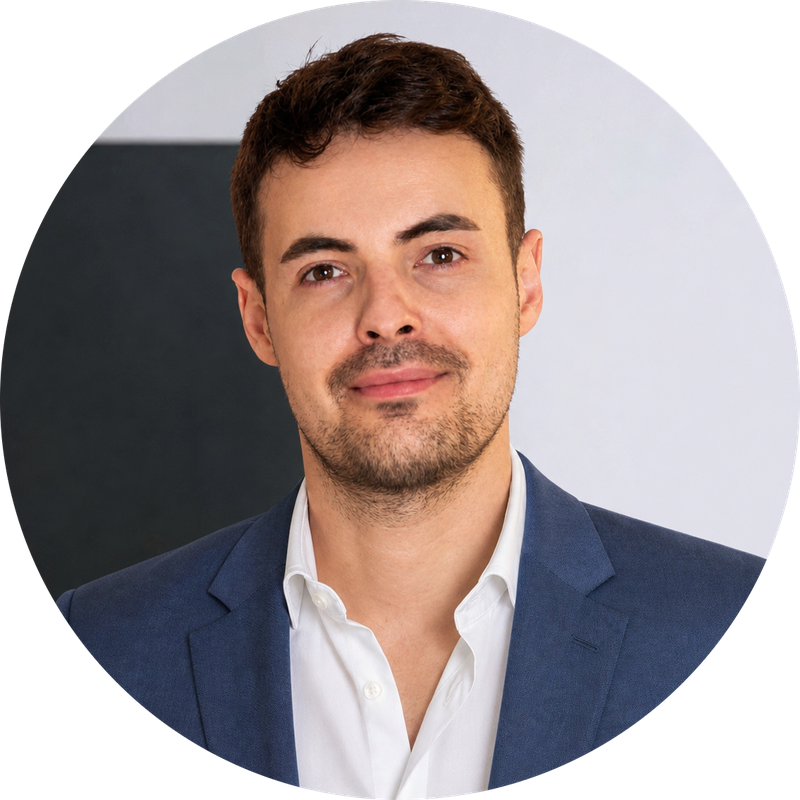
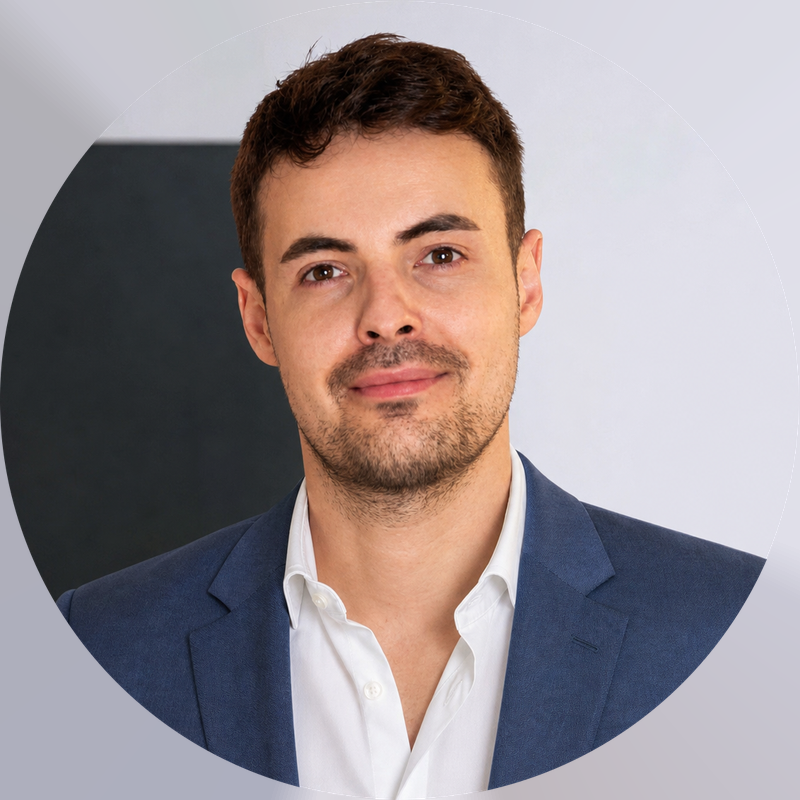
Biographie : fond du portrait prolongé avec le gris réel de la photo, sans démarcation derrière la tête

diff --git a/ar/index.html b/ar/index.html
@@ -15,7 +15,7 @@
 <link rel="alternate" hreflang="ar" href="https://erjb-web.github.io/ar/">
 <link rel="alternate" hreflang="x-default" href="https://erjb-web.github.io/">
 <link rel="icon" href="../assets/favicon.svg" type="image/svg+xml">
-<link rel="stylesheet" href="../assets/site.css?v=1a9c90b006">
+<link rel="stylesheet" href="../assets/site.css?v=4594e9cc21">
 <meta property="og:type" content="profile">
 <meta property="og:title" content="Éric Bernier">
 <meta property="og:description" content="Éric Bernier، طالب دكتوراه في الصحة العامة (الأنظمة والمنظمات والسياسات الصحية) في ESPUM، وقانوني ورائد أعمال ومربٍّ متخصص. يتناول بحثه الاستجابة المشتركة بين القطاعات للاحتياجات الاجتماعية المعقدة في الرعاية الصحية الأولية.">
@@ -333,7 +333,7 @@
 <p class="surtitre">03.1 · السيرة</p>
 <h2>من التجارب الإنسانية إلى التحولات الجماعية</h2>
 <div class="bio-intro"><p>مربٍّ متخصص وقانوني ورائد أعمال وطالب دكتوراه في الصحة العامة، تشكّل مساري في ملتقى عوالم مختلفة: مرافقة الأشخاص، وإدارة المنظمات، والقانون، والسياسات العامة، والبحث.</p><p>وخلف هذا التنوع يكمن طموح واحد: <strong>فهم الآليات التي تشكّل المسارات الفردية والجماعية، للإسهام في بناء مجتمعات أكثر عدلًا وتضامنًا، وقادرة على الاعتراف بإمكانات الفعل لدى كل فرد.</strong></p><p>ويغذّي مساري، الشخصي والمهني على حد سواء، قناعةً راسخة: لا يمكن فصل الواقع الإنساني عن الأنظمة الاجتماعية والتنظيمية والسياسية التي يندرج فيها.</p><p>ويتبع هذا المسار دينامية تصاعدية: من مرافقة الأشخاص نحو تحويل المنظمات وسياسات الصحة والخدمات الاجتماعية، مع توجّه واضح نحو دعم القرار العمومي.</p></div>
-<figure class="bio-figure"><img class="portrait-bio" src="../assets/portrait-bio.png?v=e3ad89d902" width="800" height="800" alt="صورة شخصية لـ Éric Bernier" loading="lazy"><blockquote class="citation">لا يمكن فصل الواقع الإنساني عن الأنظمة الاجتماعية والتنظيمية والسياسية التي يندرج فيها.</blockquote></figure>
+<figure class="bio-figure"><img class="portrait-bio" src="../assets/portrait-bio.png?v=8fae815c2b" width="800" height="800" alt="صورة شخصية لـ Éric Bernier" loading="lazy"><blockquote class="citation">لا يمكن فصل الواقع الإنساني عن الأنظمة الاجتماعية والتنظيمية والسياسية التي يندرج فيها.</blockquote></figure>
 </div>
 <div class="colonne-outils">
 <ol class="recit"><li><span class="recit-num">01</span><div><h3>بناء الذات خارج المسارات التقليدية</h3><p>بدأ مساري في فرنسا، في وسط شعبي، طبعته على وجه الخصوص تجربةٌ مع نظام الرعاية الاجتماعية للطفولة وانقطاعٌ عن الدراسة في سن السادسة عشرة.</p><p>وبعيدًا عن المسار الأكاديمي التقليدي، بنيتُ مساري تدريجيًا من خلال العمل، واستكشاف أوساط مختلفة، والعودة إلى الدراسة.</p><p>وقد غذّت هذه التجارب، شأنها شأن تنوّعي العصبي، استقلاليةَ تفكيري وقدرتي على التكيّف واهتمامي بآليات إعادة الإنتاج الاجتماعي والتحرر والتضامن. وهي تسهم اليوم في تشكيل نظرتي إلى المؤسسات وإلى تنوع التجارب الإنسانية.</p></div></li><li><span class="recit-num">02</span><div><h3>الإبداع واللقاء وأخلاقيات الرعاية</h3><p>قادني اهتمامي بالموسيقى إلى الالتحاق بدراسة الليسانس في علم الموسيقى، بالتوازي مع تجاربي الأولى في التنشيط، ثم إلى تولّي مسؤولية إقامات مكيّفة لفائدة أشخاص في وضعية إعاقة.</p><p>وبعيدًا عن اختلافاتها، أتاحت لي هذه العوالم استكشاف العلاقات الإنسانية في أبعاد متعددة: التعبير الفردي، والحياة الجماعية، والمرافقة، والمسؤولية تجاه الآخر.</p><p>وعلى امتداد إحدى عشرة سنة من الالتزام إلى جانب الهشاشة الإنسانية، منحت هذه التجارب تدريجيًا مكانةً محورية لأخلاقيات <em>الرعاية</em>، وللاعتراف بالقدرات الفردية، ولأهمية مرافقةٍ تعزّز الاستقلالية بدلًا من التبعية. كما أظهرت لي قوة آليات التضامن.</p></div></li><li><span class="recit-num">03</span><div><h3>من المرافقة إلى تقرير المصير</h3><p>بعد سنوات عديدة من العمل الميداني، رغبتُ في إعطاء توجّه جديد لنشاطي المهني، مسترشدًا بتفكير في المنفعة الاجتماعية وفي المكانة التي أردتُ أن أشغلها في المجتمع.</p><p>فعدتُ إلى الدراسة في التربية المتخصصة لتعميق الأسس النظرية والأخلاقية والمنهجية للمرافقة في القطاعين الاجتماعي والطبي الاجتماعي، مع إعادة تركيز ممارستي على تقرير المصير وعلى «العمل مع» الأشخاص.</p><p>وقد شكّلت رسالتي في الممارسة المهنية، المخصّصة لتأثير الممارسات التربوية في تقرير المصير، منعطفًا في تساؤلاتي: <strong>كيف نعزّز حرية الأشخاص في الاختيار حين تكون شروط مرافقتهم محكومةً أيضًا بطريقة عمل المؤسسات؟</strong></p></div></li><li><span class="recit-num">04</span><div><h3>فهم المنظمات لتحويل الممارسات</h3><p>قادني هذا التساؤل إلى توسيع تفكيري ليشمل المنظمات ذاتها.</p><p>فتابعتُ تكوينًا في إدارة المؤسسات الصحية والطبية الاجتماعية وتسييرها، إلى جانب دبلوم جامعي في ريادة الأعمال من IAE de Brest (معهد إدارة الأعمال في بريست)، حصلتُ عليه سنة 2023.</p><p>وفيهما عمّقتُ قضايا الإدارة والتمويل والتنسيق والموارد البشرية وإدارة التغيير. ولاحظتُ أن صعوبات المؤسسات، من التمويل إلى العمل الشراكي فالتوظيف، كانت مشروطةً إلى حد بعيد بالسياسات العامة للصحة.</p><p>وقد سعيتُ قبل كل شيء إلى فهم الشروط التي تمكّن المهنيين من ترجمة نواياهم إلى ممارسات فعلية، وتمكّن المنظمات من التوفيق بين قيودها واحتياجات الأشخاص.</p></div></li><li><span class="recit-num">05</span><div><h3>من طريقة عمل المؤسسات إلى حوكمة الأنظمة الصحية</h3><p>قادتني دراسة المنظمات إلى استكشاف الآليات التي توجّه قراراتها: الأطر القانونية، والسياسات العامة، والتخطيط، وآليات التمويل، وأنماط الحوكمة.</p><p>وواصلتُ هذا التفكير في Université Paris-Panthéon-Assas (جامعة باريس بانتيون أساس)، في القانون العام والصحي والاجتماعي، لتجاوز الإشكاليات التسييرية واعتماد مقاربة متعددة المستويات للنظام الصحي وللأدوات القانونية للتضامن الوطني، ثم بصفتي مكلّفًا بالمشاريع في Agence nationale d’appui à la performance (الوكالة الوطنية لدعم الأداء، ANAP).</p><p>وأتاحت لي هذه التجربة العمل عند نقطة التقاء التوجهات الوطنية بالواقع التشغيلي، عبر ترجمة هذه التوجهات إلى آليات ملموسة، على تماسّ مع القضايا التي يواجهها المسيّرون والمهنيون ومستخدمو النظام الصحي.</p><p>وقد عزّزت اهتمامي بصعوبات تنفيذ السياسات العامة، ولا سيما حين تقتضي الاستجابات المطلوبة تجاوزَ الحدود بين المنظمات وقطاعات التدخل. وقد كشف هذا الانغماس، الذي عزّزته رسالة بحث، عن صعوبات تنفيذ نماذج الرعاية والخدمات المتكاملة، وعن ضرورة مقاربة مشتركة بين القطاعات ومتعددة التخصصات في مواجهة الممارسات المنعزلة. فتواصلتُ حينها مع عدد من الباحثين في كيبيك، وعرضتُ عليهم ملاحظاتي ومشروعًا لمقارنة الأنظمة الصحية، بحثًا عن حلول لصعوبات تنفيذ سياسات البقاء في المنزل.</p></div></li><li><span class="recit-num">06</span><div><h3>إنتاج المعارف لإنارة العمل الجماعي</h3><p>واليوم، يواصل هذا المسارَ برنامجُ الدكتوراه في الصحة العامة الذي أتابعه في Université de Montréal (جامعة مونتريال)، تحت إشراف الدكتورتين N. Sourial وG. Layani.</p><p>وتتناول أعمالي تنظيم أنظمة الصحة والخدمات الاجتماعية، والاحتياجات الاجتماعية للسكان، والتعاون بين القطاعات، وشروط تنفيذ استجابات متكاملة، لا سيما في مجال الدعم المنزلي.</p><p>ومقاربتي متعددة التخصصات وبراغماتية بامتياز. وهي تسعى إلى التقريب بين التجارب المعيشة والمعارف العلمية وواقع صنع القرار، لفهم الظواهر المدروسة على نحو أفضل والإسهام في تحويل الممارسات والسياسات العامة.</p><p>وأولي اهتمامًا خاصًا للفئات السكانية التي تعاني فقدان الاستقلالية والبعيدة عن الخدمات، وللبحث التشاركي الذي يُدمج المرضى بوصفهم منتجين للمعارف، ولنقل المعارف وتعبئتها من قِبل الأشخاص والمهنيين والمنظمات وصنّاع القرار.</p><p>وتمتد هذه الرغبة في الإبداع والتجريب والاقتراح أيضًا إلى ريادة الأعمال، ولا سيما من خلال تطوير <strong>OWNNIGHT</strong>، وهو مشروع قيد الإنشاء.</p></div></li></ol>

diff --git a/index.html b/index.html
@@ -15,7 +15,7 @@
 <link rel="alternate" hreflang="ar" href="https://erjb-web.github.io/ar/">
 <link rel="alternate" hreflang="x-default" href="https://erjb-web.github.io/">
 <link rel="icon" href="assets/favicon.svg" type="image/svg+xml">
-<link rel="stylesheet" href="assets/site.css?v=1a9c90b006">
+<link rel="stylesheet" href="assets/site.css?v=4594e9cc21">
 <meta property="og:type" content="profile">
 <meta property="og:title" content="Éric Bernier">
 <meta property="og:description" content="Éric Bernier, doctorant en santé publique (systèmes, organisations et politiques de santé) à l’ESPUM, juriste, entrepreneur et éducateur spécialisé. Recherche sur la réponse intersectorielle aux besoins sociaux complexes en soins primaires.">
@@ -333,7 +333,7 @@
 <p class="surtitre">03.1 · Biographie</p>
 <h2>Des expériences humaines aux transformations collectives</h2>
 <div class="bio-intro"><p>Éducateur spécialisé, juriste, entrepreneur et doctorant en santé publique, mon parcours s’est construit à la rencontre de différents univers : l’accompagnement des personnes, la gestion des organisations, le droit, les politiques publiques et la recherche.</p><p>Derrière cette diversité se trouve une même ambition : <strong>comprendre les mécanismes qui façonnent les trajectoires individuelles et collectives, pour contribuer à des sociétés plus justes, solidaires et capables de reconnaître les possibilités d’agir de chacun.</strong></p><p>Mon cheminement, personnel comme professionnel, nourrit une conviction : les réalités humaines ne peuvent être dissociées des systèmes sociaux, organisationnels et politiques dans lesquels elles s’inscrivent.</p><p>Il suit une dynamique ascendante : de l’accompagnement des personnes vers la transformation des organisations et des politiques de santé et de services sociaux, avec une orientation claire vers l’appui à la décision publique.</p></div>
-<figure class="bio-figure"><img class="portrait-bio" src="assets/portrait-bio.png?v=e3ad89d902" width="800" height="800" alt="Portrait d’Éric Bernier" loading="lazy"><blockquote class="citation">Les réalités humaines ne peuvent être dissociées des systèmes sociaux, organisationnels et politiques dans lesquels elles s’inscrivent.</blockquote></figure>
+<figure class="bio-figure"><img class="portrait-bio" src="assets/portrait-bio.png?v=8fae815c2b" width="800" height="800" alt="Portrait d’Éric Bernier" loading="lazy"><blockquote class="citation">Les réalités humaines ne peuvent être dissociées des systèmes sociaux, organisationnels et politiques dans lesquels elles s’inscrivent.</blockquote></figure>
 </div>
 <div class="colonne-outils">
 <ol class="recit"><li><span class="recit-num">01</span><div><h3>Se construire hors des trajectoires conventionnelles</h3><p>Mon parcours commence en France, dans un milieu populaire, marqué notamment par une expérience de l’aide sociale à l’enfance et une déscolarisation à seize ans.</p><p>Loin d’un cheminement académique conventionnel, j’ai progressivement construit ma trajectoire par le travail, l’exploration de différents milieux et la reprise d’études.</p><p>Ces expériences, tout comme ma neuroatypie, ont nourri mon indépendance de pensée, ma capacité d’adaptation et mon intérêt pour les mécanismes de reproduction sociale, d’émancipation et de solidarité. Elles contribuent aujourd’hui à mon regard sur les institutions et sur la diversité des expériences humaines.</p></div></li><li><span class="recit-num">02</span><div><h3>La création, la rencontre et l’éthique du prendre soin</h3><p>Mon intérêt pour la musique m’a conduit à entreprendre une licence en musicologie, parallèlement à mes premières expériences dans l’animation, puis à la responsabilité de séjours adaptés auprès de personnes en situation de handicap.</p><p>Au-delà de leurs différences, ces univers m’ont permis d’explorer les rapports humains sous plusieurs dimensions : l’expression individuelle, la vie collective, l’accompagnement et la responsabilité envers autrui.</p><p>Au fil de onze années d’engagement auprès de la vulnérabilité humaine, ces expériences ont progressivement donné une place centrale à l’éthique du <em>prendre soin</em>, à la reconnaissance des capacités individuelles et à l’importance d’un accompagnement qui favorise l’autonomie plutôt que la dépendance. Elles m’ont aussi montré la force des mécanismes de solidarité.</p></div></li><li><span class="recit-num">03</span><div><h3>De l’accompagnement à l’autodétermination</h3><p>Après plusieurs années d’engagement sur le terrain, j’ai souhaité donner une nouvelle orientation à mon activité professionnelle, guidé par une réflexion sur l’utilité sociale et sur la place que je souhaitais occuper dans la société.</p><p>J’ai ainsi repris des études en éducation spécialisée pour approfondir les fondements théoriques, éthiques et méthodologiques de l’accompagnement dans les secteurs social et médico-social, en recentrant ma pratique sur l’autodétermination et le « faire avec » les personnes.</p><p>Mon mémoire de pratique professionnelle, consacré à l’influence des pratiques éducatives sur l’autodétermination, a constitué un tournant dans mon questionnement : <strong>comment favoriser la liberté de choix des personnes lorsque les conditions de leur accompagnement sont aussi déterminées par le fonctionnement des institutions ?</strong></p></div></li><li><span class="recit-num">04</span><div><h3>Comprendre les organisations pour transformer les pratiques</h3><p>Cette interrogation m’a conduit à élargir ma réflexion aux organisations elles-mêmes.</p><p>J’ai poursuivi une formation en direction et gestion des établissements sanitaires et médico-sociaux, ainsi qu’un diplôme universitaire en entrepreneuriat à l’IAE de Brest, obtenu en 2023.</p><p>J’y ai approfondi les enjeux de management, de financement, de coordination, de ressources humaines et de conduite du changement. J’y ai constaté que les difficultés des structures, du financement au travail partenarial et au recrutement, étaient largement conditionnées par les politiques publiques de santé.</p><p>J’ai surtout cherché à comprendre les conditions qui permettent aux professionnels de traduire leurs intentions en pratiques effectives, et aux organisations de concilier leurs contraintes avec les besoins des personnes.</p></div></li><li><span class="recit-num">05</span><div><h3>Du fonctionnement des institutions à la gouvernance des systèmes de santé</h3><p>L’étude des organisations m’a amené à explorer les mécanismes qui orientent leurs décisions : les cadres juridiques, les politiques publiques, la planification, les dispositifs de financement et les modalités de gouvernance.</p><p>J’ai poursuivi cette réflexion à l’Université Paris-Panthéon-Assas, en droit public, sanitaire et social, pour dépasser les problématiques gestionnaires et adopter une approche multiniveau du système de santé et des instruments juridiques de la solidarité nationale, puis comme chargé de projets à l’Agence nationale d’appui à la performance (ANAP).</p><p>Cette expérience m’a permis de travailler à l’articulation entre orientations nationales et réalités opérationnelles, en traduisant ces orientations en dispositifs concrets, au contact des enjeux rencontrés par les gestionnaires, les professionnels et les usagers du système de santé.</p><p>Elle a renforcé mon intérêt pour les difficultés de mise en œuvre des politiques publiques, particulièrement lorsque les réponses à apporter supposent de dépasser les frontières entre organisations et secteurs d’intervention. Consolidée par un mémoire de recherche, cette immersion a révélé les difficultés de mise en œuvre des modèles de soins et services intégrés, et la nécessité d’une approche intersectorielle et interdisciplinaire face aux pratiques en silos. J’ai alors sollicité plusieurs chercheurs québécois en leur présentant mes constats et un projet de mise en contraste des systèmes de santé, pour trouver des réponses aux difficultés de mise en œuvre du maintien à domicile.</p></div></li><li><span class="recit-num">06</span><div><h3>Produire des connaissances pour éclairer l’action collective</h3><p>Aujourd’hui, mon doctorat en santé publique à l’Université de Montréal, sous la direction des Dres N. Sourial et G. Layani, prolonge ce cheminement.</p><p>Mes travaux portent sur l’organisation des systèmes de santé et de services sociaux, les besoins sociaux des populations, les collaborations intersectorielles et les conditions de mise en œuvre de réponses intégrées, notamment dans le soutien à domicile.</p><p>Mon approche est résolument interdisciplinaire et pragmatique. Elle vise à rapprocher les expériences vécues, les connaissances scientifiques et les réalités décisionnelles pour mieux comprendre les phénomènes étudiés et contribuer à la transformation des pratiques et des politiques publiques.</p><p>Je porte une attention particulière aux populations en perte d’autonomie et éloignées des services, à la recherche partenariale, qui intègre les patients comme producteurs de savoirs, au transfert des connaissances et à leur mobilisation par les personnes, les professionnels, les organisations et les décideurs.</p><p>Cette volonté de créer, d’expérimenter et de proposer se prolonge également dans l’entrepreneuriat, notamment à travers le développement d’<strong>OWNNIGHT</strong>, un projet en cours de création.</p></div></li></ol>

diff --git a/es/index.html b/es/index.html
@@ -15,7 +15,7 @@
 <link rel="alternate" hreflang="ar" href="https://erjb-web.github.io/ar/">
 <link rel="alternate" hreflang="x-default" href="https://erjb-web.github.io/">
 <link rel="icon" href="../assets/favicon.svg" type="image/svg+xml">
-<link rel="stylesheet" href="../assets/site.css?v=1a9c90b006">
+<link rel="stylesheet" href="../assets/site.css?v=4594e9cc21">
 <meta property="og:type" content="profile">
 <meta property="og:title" content="Éric Bernier">
 <meta property="og:description" content="Éric Bernier, doctorando en salud pública (sistemas, organizaciones y políticas de salud) en la ESPUM, Université de Montréal, jurista, emprendedor y educador especializado. Investigación sobre la respuesta intersectorial a las necesidades sociales complejas en atención primaria.">
@@ -333,7 +333,7 @@
 <p class="surtitre">03.1 · Biografía</p>
 <h2>De las experiencias humanas a las transformaciones colectivas</h2>
 <div class="bio-intro"><p>Educador especializado, jurista, emprendedor y doctorando en salud pública, construí mi trayectoria en el encuentro de distintos mundos: el acompañamiento de las personas, la gestión de las organizaciones, el derecho, las políticas públicas y la investigación.</p><p>Detrás de esta diversidad hay una misma ambición: <strong>comprender los mecanismos que dan forma a las trayectorias individuales y colectivas, para contribuir a sociedades más justas, solidarias y capaces de reconocer las posibilidades de actuar de cada persona.</strong></p><p>Mi camino, personal y profesional, alimenta una convicción: las realidades humanas no pueden separarse de los sistemas sociales, organizativos y políticos en los que se inscriben.</p><p>Sigue una dinámica ascendente: del acompañamiento de las personas hacia la transformación de las organizaciones y de las políticas de salud y de servicios sociales, con una orientación clara hacia el apoyo a la decisión pública.</p></div>
-<figure class="bio-figure"><img class="portrait-bio" src="../assets/portrait-bio.png?v=e3ad89d902" width="800" height="800" alt="Retrato de Éric Bernier" loading="lazy"><blockquote class="citation">Las realidades humanas no pueden separarse de los sistemas sociales, organizativos y políticos en los que se inscriben.</blockquote></figure>
+<figure class="bio-figure"><img class="portrait-bio" src="../assets/portrait-bio.png?v=8fae815c2b" width="800" height="800" alt="Retrato de Éric Bernier" loading="lazy"><blockquote class="citation">Las realidades humanas no pueden separarse de los sistemas sociales, organizativos y políticos en los que se inscriben.</blockquote></figure>
 </div>
 <div class="colonne-outils">
 <ol class="recit"><li><span class="recit-num">01</span><div><h3>Construirse fuera de las trayectorias convencionales</h3><p>Mi trayectoria comienza en Francia, en un medio popular, marcado en particular por una experiencia en la protección de la infancia y por el abandono de la escuela a los dieciséis años.</p><p>Lejos de un recorrido académico convencional, fui construyendo mi trayectoria a través del trabajo, la exploración de distintos entornos y la vuelta a los estudios.</p><p>Estas experiencias, al igual que mi neuroatipia, alimentaron mi independencia de pensamiento, mi capacidad de adaptación y mi interés por los mecanismos de reproducción social, de emancipación y de solidaridad. Hoy forman parte de mi mirada sobre las instituciones y sobre la diversidad de las experiencias humanas.</p></div></li><li><span class="recit-num">02</span><div><h3>La creación, el encuentro y la ética del cuidado</h3><p>Mi interés por la música me llevó a cursar una licenciatura en musicología, en paralelo a mis primeras experiencias en la animación sociocultural y, después, a la responsabilidad de estancias adaptadas para personas con discapacidad.</p><p>Más allá de sus diferencias, estos mundos me permitieron explorar las relaciones humanas en varias dimensiones: la expresión individual, la vida colectiva, el acompañamiento y la responsabilidad hacia los demás.</p><p>A lo largo de once años de compromiso junto a la vulnerabilidad humana, estas experiencias fueron dando un lugar central a la ética del <em>cuidado</em>, al reconocimiento de las capacidades individuales y a la importancia de un acompañamiento que favorezca la autonomía y no la dependencia. También me mostraron la fuerza de la solidaridad.</p></div></li><li><span class="recit-num">03</span><div><h3>Del acompañamiento a la autodeterminación</h3><p>Tras varios años de compromiso en el terreno, quise dar una nueva orientación a mi actividad profesional, guiado por una reflexión sobre la utilidad social y sobre el lugar que deseaba ocupar en la sociedad.</p><p>Así retomé los estudios en educación especializada para profundizar en los fundamentos teóricos, éticos y metodológicos del acompañamiento en los sectores social y sociosanitario, centrando mi práctica en la autodeterminación y en el «hacer con» las personas.</p><p>Mi memoria de práctica profesional, dedicada a la influencia de las prácticas educativas en la autodeterminación, marcó un punto de inflexión en mis preguntas: <strong>¿cómo favorecer la libertad de elección de las personas cuando las condiciones de su acompañamiento dependen también del funcionamiento de las instituciones?</strong></p></div></li><li><span class="recit-num">04</span><div><h3>Comprender las organizaciones para transformar las prácticas</h3><p>Esta pregunta me llevó a ampliar mi reflexión a las propias organizaciones.</p><p>Cursé una formación en dirección y gestión de establecimientos sanitarios y sociosanitarios, así como un diploma universitario en emprendimiento en el IAE de Brest, obtenido en 2023.</p><p>Allí profundicé en los retos de la gestión, la financiación, la coordinación, los recursos humanos y la conducción del cambio, y comprobé que las dificultades de las estructuras, desde la financiación hasta el trabajo en red y la contratación, dependían en gran medida de las políticas públicas de salud.</p><p>Sobre todo, busqué comprender las condiciones que permiten a los profesionales traducir sus intenciones en prácticas efectivas, y a las organizaciones conciliar sus limitaciones con las necesidades de las personas.</p></div></li><li><span class="recit-num">05</span><div><h3>Del funcionamiento de las instituciones a la gobernanza de los sistemas de salud</h3><p>El estudio de las organizaciones me llevó a explorar los mecanismos que orientan sus decisiones: los marcos jurídicos, las políticas públicas, la planificación, los mecanismos de financiación y las modalidades de gobernanza.</p><p>Continué esta reflexión en la Université Paris-Panthéon-Assas, en derecho público, sanitario y social, para superar los problemas de gestión y adoptar un enfoque multinivel del sistema de salud y de los instrumentos jurídicos de la solidaridad nacional, y después como encargado de proyectos en la Agencia nacional francesa de apoyo al desempeño (ANAP).</p><p>Esta experiencia me permitió trabajar en la articulación entre las orientaciones nacionales y las realidades operativas, traduciendo esas orientaciones en dispositivos concretos, en contacto con los retos de gestores, profesionales y usuarios del sistema de salud.</p><p>Reforzó mi interés por las dificultades de implementación de las políticas públicas, sobre todo cuando las respuestas exigen superar las fronteras entre organizaciones y sectores. Consolidada por una memoria de investigación, esta inmersión reveló las dificultades de implementación de los modelos de atención y servicios integrados, y la necesidad de un enfoque intersectorial e interdisciplinario frente a las prácticas en silos. Entonces me dirigí a varios investigadores quebequenses, presentándoles mis constataciones y un proyecto para contrastar los sistemas de salud, en busca de respuestas a las dificultades de implementación de la permanencia en el domicilio.</p></div></li><li><span class="recit-num">06</span><div><h3>Producir conocimientos para esclarecer la acción colectiva</h3><p>Hoy, mi doctorado en salud pública en la Université de Montréal, bajo la dirección de las Dras. N. Sourial y G. Layani, prolonga este camino.</p><p>Mis trabajos abordan la organización de los sistemas de salud y de servicios sociales, las necesidades sociales de las poblaciones, las colaboraciones intersectoriales y las condiciones de implementación de respuestas integradas, en particular en el apoyo a domicilio.</p><p>Mi enfoque es decididamente interdisciplinario y pragmático. Busca acercar las experiencias vividas, los conocimientos científicos y las realidades de la toma de decisiones para comprender mejor los fenómenos estudiados y contribuir a transformar las prácticas y las políticas públicas.</p><p>Presto una atención particular a las personas que pierden autonomía y a quienes están lejos de los servicios, a la investigación participativa que reconoce a los pacientes como productores de saberes, a la transferencia de conocimientos y a su movilización por las personas, los profesionales, las organizaciones y quienes toman las decisiones.</p><p>Esta voluntad de crear, experimentar y proponer se prolonga también en el emprendimiento, en particular con el desarrollo de <strong>OWNNIGHT</strong>, un proyecto en creación.</p></div></li></ol>

diff --git a/en/index.html b/en/index.html
@@ -15,7 +15,7 @@
 <link rel="alternate" hreflang="ar" href="https://erjb-web.github.io/ar/">
 <link rel="alternate" hreflang="x-default" href="https://erjb-web.github.io/">
 <link rel="icon" href="../assets/favicon.svg" type="image/svg+xml">
-<link rel="stylesheet" href="../assets/site.css?v=1a9c90b006">
+<link rel="stylesheet" href="../assets/site.css?v=4594e9cc21">
 <meta property="og:type" content="profile">
 <meta property="og:title" content="Éric Bernier">
 <meta property="og:description" content="Éric Bernier, PhD student in public health (health systems, organisations and policy) at ESPUM, Université de Montréal, trained in law and special needs education, and an entrepreneur. Research on intersectoral responses to complex social needs in primary care.">
@@ -333,7 +333,7 @@
 <p class="surtitre">03.1 · Biography</p>
 <h2>From human experiences to collective transformations</h2>
 <div class="bio-intro"><p>Special needs educator, jurist, entrepreneur and PhD student in public health, I built my path at the meeting point of different worlds: supporting people, managing organisations, law, public policy and research.</p><p>Behind this diversity lies one ambition: <strong>to understand the mechanisms that shape individual and collective trajectories, in order to contribute to fairer, more supportive societies that recognise everyone’s capacity to act.</strong></p><p>My journey, personal and professional, feeds one conviction: human realities cannot be separated from the social, organisational and political systems in which they are embedded.</p><p>It follows an upward movement: from supporting people towards transforming health and social service organisations and policies, with a clear focus on supporting public decision-making.</p></div>
-<figure class="bio-figure"><img class="portrait-bio" src="../assets/portrait-bio.png?v=e3ad89d902" width="800" height="800" alt="Portrait of Éric Bernier" loading="lazy"><blockquote class="citation">Human realities cannot be separated from the social, organisational and political systems in which they are embedded.</blockquote></figure>
+<figure class="bio-figure"><img class="portrait-bio" src="../assets/portrait-bio.png?v=8fae815c2b" width="800" height="800" alt="Portrait of Éric Bernier" loading="lazy"><blockquote class="citation">Human realities cannot be separated from the social, organisational and political systems in which they are embedded.</blockquote></figure>
 </div>
 <div class="colonne-outils">
 <ol class="recit"><li><span class="recit-num">01</span><div><h3>Growing up outside conventional paths</h3><p>My path begins in France, in a working-class setting, marked in particular by time in the child welfare system and by leaving school at sixteen.</p><p>Far from a conventional academic route, I gradually built my trajectory through work, through exploring different settings and through returning to study.</p><p>These experiences, like my neurodivergence, nurtured my independent thinking, my adaptability and my interest in the mechanisms of social reproduction, emancipation and solidarity. Today they inform how I look at institutions and at the diversity of human experience.</p></div></li><li><span class="recit-num">02</span><div><h3>Creation, encounter and the ethics of care</h3><p>My interest in music led me to a bachelor’s degree in musicology, alongside my first experiences in youth and leisure programmes and then managing adapted stays for people with disabilities.</p><p>For all their differences, these worlds let me explore human relationships in several dimensions: individual expression, collective life, support and responsibility towards others.</p><p>Over eleven years of commitment alongside human vulnerability, these experiences gradually placed the ethics of <em>care</em> at the centre, together with the recognition of individual capacities and the importance of support that fosters autonomy rather than dependence. They also showed me the strength of solidarity.</p></div></li><li><span class="recit-num">03</span><div><h3>From support to self-determination</h3><p>After several years in the field, I wanted to give my professional life a new direction, guided by a reflection on social usefulness and on the place I wished to hold in society.</p><p>I therefore returned to study special needs education to deepen the theoretical, ethical and methodological foundations of support in the social and medico-social sectors, refocusing my practice on self-determination and on working <em>with</em> people.</p><p>My professional practice thesis, on how educational practices influence self-determination, was a turning point in my questioning: <strong>how can people’s freedom of choice be fostered when the conditions of their support are also determined by how institutions work?</strong></p></div></li><li><span class="recit-num">04</span><div><h3>Understanding organisations to transform practice</h3><p>This question led me to widen my reflection to organisations themselves.</p><p>I completed training in the management of health and medico-social facilities, as well as a university diploma in entrepreneurship at IAE Brest, obtained in 2023.</p><p>There I deepened issues of management, funding, coordination, human resources and change management, and observed that the facilities’ difficulties, from funding to partnership work and recruitment, were largely conditioned by health policy.</p><p>Above all, I sought to understand the conditions that allow professionals to turn their intentions into effective practice, and organisations to reconcile their constraints with people’s needs.</p></div></li><li><span class="recit-num">05</span><div><h3>From how institutions work to the governance of health systems</h3><p>Studying organisations led me to explore the mechanisms that steer their decisions: legal frameworks, public policy, planning, funding arrangements and governance.</p><p>I pursued this reflection at Université Paris-Panthéon-Assas, in public, health and social law, to move beyond management issues and adopt a multilevel approach to the health system and to the legal instruments of national solidarity, then as a project manager at France’s national agency for performance support (ANAP).</p><p>This experience allowed me to work at the interface between national directions and operational realities, turning those directions into concrete arrangements, in close contact with the challenges faced by managers, professionals and users of the health system.</p><p>It strengthened my interest in the difficulties of implementing public policy, especially when the responses needed require crossing the boundaries between organisations and sectors. Consolidated by a research thesis, this immersion revealed the difficulties of implementing integrated care and service models, and the need for an intersectoral and interdisciplinary approach to siloed practices. I then reached out to several researchers in Québec, presenting my findings and a project to contrast health systems, in search of answers to the difficulties of implementing ageing-in-place policies.</p></div></li><li><span class="recit-num">06</span><div><h3>Producing knowledge to inform collective action</h3><p>Today, my PhD in public health at Université de Montréal, supervised by Drs. N. Sourial and G. Layani, continues this journey.</p><p>My work focuses on the organisation of health and social service systems, populations’ social needs, intersectoral collaboration and the conditions for implementing integrated responses, particularly in home support.</p><p>My approach is resolutely interdisciplinary and pragmatic. It seeks to bring together lived experience, scientific knowledge and decision-making realities, to better understand the phenomena studied and to contribute to changing practice and public policy.</p><p>I pay particular attention to people losing autonomy and those far from services, to partnership research that recognises patients as producers of knowledge, to knowledge translation and to the use of knowledge by people, professionals, organisations and decision-makers.</p><p>This drive to create, experiment and propose also extends to entrepreneurship, notably through the development of <strong>OWNNIGHT</strong>, a project under way.</p></div></li></ol>

diff --git a/zh/index.html b/zh/index.html
@@ -15,7 +15,7 @@
 <link rel="alternate" hreflang="ar" href="https://erjb-web.github.io/ar/">
 <link rel="alternate" hreflang="x-default" href="https://erjb-web.github.io/">
 <link rel="icon" href="../assets/favicon.svg" type="image/svg+xml">
-<link rel="stylesheet" href="../assets/site.css?v=1a9c90b006">
+<link rel="stylesheet" href="../assets/site.css?v=4594e9cc21">
 <meta property="og:type" content="profile">
 <meta property="og:title" content="Éric Bernier">
 <meta property="og:description" content="Éric Bernier，ESPUM（蒙特利尔大学公共卫生学院）公共卫生博士研究生（卫生系统、组织与政策方向），法律专业人士，创业者，特殊教育工作者。研究方向：初级保健中针对复杂社会需求的跨部门应对。">
@@ -333,7 +333,7 @@
 <p class="surtitre">03.1 · 个人历程</p>
 <h2>从个体经验到集体变革</h2>
 <div class="bio-intro"><p>作为特殊教育工作者、法律专业人士、创业者和公共卫生博士研究生，我的经历是在多个领域的交汇中逐步形成的：对人的陪伴、组织管理、法律、公共政策与研究。</p><p>在这种多样性背后，是同一个志向：<strong>理解塑造个人与集体轨迹的机制，以助力建设更加公正、更加团结、并能够承认每个人行动可能性的社会。</strong></p><p>无论在个人层面还是职业层面，我的历程都孕育了一个信念：人的现实无法脱离其所处的社会、组织与政治体系。</p><p>这一历程呈上升态势：从陪伴个人，到推动卫生与社会服务组织及政策的变革，并明确以支持公共决策为导向。</p></div>
-<figure class="bio-figure"><img class="portrait-bio" src="../assets/portrait-bio.png?v=e3ad89d902" width="800" height="800" alt="Éric Bernier 的肖像" loading="lazy"><blockquote class="citation">人的现实无法脱离其所处的社会、组织与政治体系。</blockquote></figure>
+<figure class="bio-figure"><img class="portrait-bio" src="../assets/portrait-bio.png?v=8fae815c2b" width="800" height="800" alt="Éric Bernier 的肖像" loading="lazy"><blockquote class="citation">人的现实无法脱离其所处的社会、组织与政治体系。</blockquote></figure>
 </div>
 <div class="colonne-outils">
 <ol class="recit"><li><span class="recit-num">01</span><div><h3>在常规轨迹之外成长</h3><p>我的人生始于法国的一个平民环境，其间尤其经历了儿童社会救助体系，并在十六岁时辍学。</p><p>我并未走传统的学术道路，而是通过工作、探索不同环境以及重返校园，逐步构建起自己的人生轨迹。</p><p>这些经历，连同我的神经非典型特质，培养了我的独立思考与适应能力，也激发了我对社会再生产、解放与团结机制的兴趣。它们至今仍影响着我看待制度以及人类经验多样性的视角。</p></div></li><li><span class="recit-num">02</span><div><h3>创作、相遇与关怀伦理</h3><p>出于对音乐的兴趣，我攻读了音乐学学士学位，同时开始从事活动组织工作，后来又负责为残障人士举办适应性度假项目。</p><p>尽管这些领域各不相同，它们让我得以从多个维度探索人际关系：个人表达、集体生活、陪伴以及对他人的责任。</p><p>在投身于人类脆弱性领域的十一年间，这些经历逐渐将<em>关怀</em>伦理、对个人能力的承认，以及促进自主而非依赖的陪伴之重要性置于核心位置。它们也让我看到了团结机制的力量。</p></div></li><li><span class="recit-num">03</span><div><h3>从陪伴到自主决定</h3><p>在一线工作多年之后，我希望为自己的职业活动确立新的方向，引导我的是对社会效用的思考，以及我希望在社会中占据何种位置的思考。</p><p>因此，我重返校园攻读特殊教育，以深化社会与医疗社会领域陪伴工作的理论、伦理与方法论基础，并将我的实践重新聚焦于自主决定以及与当事人“一起做”。</p><p>我的专业实践论文探讨了教育实践对自主决定的影响，这成为我思考的转折点：<strong>当陪伴的条件同样取决于机构的运作方式时，如何促进个人的选择自由？</strong></p></div></li><li><span class="recit-num">04</span><div><h3>理解组织以变革实践</h3><p>这一追问促使我将思考扩展到组织本身。</p><p>我继续修读卫生与医疗社会机构领导与管理课程，并于2023年在 IAE de Brest（布雷斯特企业管理学院）获得创业学大学文凭。</p><p>我在其中深入研究了管理、筹资、协调、人力资源与变革管理等议题，并发现机构所面临的困难——从筹资到伙伴协作再到人员招聘——在很大程度上受制于公共卫生政策。</p><p>我尤其致力于理解哪些条件能够使专业人员将其意图转化为切实的实践，并使组织能够兼顾自身约束与个人需求。</p></div></li><li><span class="recit-num">05</span><div><h3>从机构运作到卫生系统治理</h3><p>对组织的研究促使我去探究引导其决策的机制：法律框架、公共政策、规划、筹资机制以及治理模式。</p><p>我先在 Université Paris-Panthéon-Assas（巴黎-先贤祠-阿萨斯大学）攻读公法、卫生法与社会法，以超越管理层面的问题，对卫生系统及国家团结的法律工具采取多层次的研究路径；随后又在 Agence nationale d’appui à la performance（ANAP，法国国家绩效支持署）担任项目负责人，延续这一思考。</p><p>这段经历使我能够在国家方针与运营现实的衔接处开展工作，将这些方针转化为具体的机制，并直面管理者、专业人员和卫生系统使用者所遇到的问题。</p><p>它加深了我对公共政策实施困难的兴趣，尤其是当所需的应对要求跨越组织之间、干预部门之间的边界时。在一篇研究论文的支撑下，这段深入一线的经历揭示了整合式医疗与服务模式在实施中的困难，以及面对各自为政的“孤岛式”实践，采取跨部门与跨学科方法的必要性。于是，我主动联系了多位魁北克研究者，向他们介绍我的观察以及一项对比不同卫生系统的研究计划，以期为居家养老在实施中遇到的困难寻找答案。</p></div></li><li><span class="recit-num">06</span><div><h3>生产知识以启迪集体行动</h3><p>如今，我在 Université de Montréal（蒙特利尔大学）攻读公共卫生博士学位，由 N. Sourial 博士与 G. Layani 博士指导，延续着这一历程。</p><p>我的研究聚焦于卫生与社会服务系统的组织、人群的社会需求、跨部门协作，以及整合式应对的实施条件，尤其是在居家支持领域。</p><p>我的研究路径坚定地秉持跨学科与实用主义取向，旨在拉近亲身经验、科学知识与决策现实之间的距离，以更好地理解所研究的现象，并助力实践与公共政策的变革。</p><p>我特别关注失能人群以及远离服务的人群，关注将患者视为知识生产者的伙伴式研究，也关注知识的转化及其被个人、专业人员、组织和决策者动员与运用的过程。</p><p>这种创造、试验与提出新方案的意愿也延伸至创业领域，尤其体现在 <strong>OWNNIGHT</strong> 的开发上，这是一个正在创建中的项目。</p></div></li></ol>

diff --git a/falc/index.html b/falc/index.html
@@ -8,7 +8,7 @@
 <meta name="description" content="Qui est Éric Bernier, son travail et sa recherche, en facile à lire et à comprendre (FALC).">
 <link rel="canonical" href="https://erjb-web.github.io/falc/">
 <link rel="icon" href="../assets/favicon.svg" type="image/svg+xml">
-<link rel="stylesheet" href="../assets/site.css?v=1a9c90b006">
+<link rel="stylesheet" href="../assets/site.css?v=4594e9cc21">
 <script src="../assets/site.js?v=920b719450" defer></script>
 </head>
 <body class="page-abregee">

diff --git a/innu/index.html b/innu/index.html
@@ -8,7 +8,7 @@
 <meta name="description" content="Éric Bernier, doctorant en santé publique · PhD student in public health">
 <link rel="canonical" href="https://erjb-web.github.io/innu/">
 <link rel="icon" href="../assets/favicon.svg" type="image/svg+xml">
-<link rel="stylesheet" href="../assets/site.css?v=1a9c90b006">
+<link rel="stylesheet" href="../assets/site.css?v=4594e9cc21">
 <script src="../assets/site.js?v=920b719450" defer></script>
 </head>
 <body class="page-abregee">

diff --git a/iu/index.html b/iu/index.html
@@ -8,7 +8,7 @@
 <meta name="description" content="Éric Bernier, doctorant en santé publique · PhD student in public health">
 <link rel="canonical" href="https://erjb-web.github.io/iu/">
 <link rel="icon" href="../assets/favicon.svg" type="image/svg+xml">
-<link rel="stylesheet" href="../assets/site.css?v=1a9c90b006">
+<link rel="stylesheet" href="../assets/site.css?v=4594e9cc21">
 <script src="../assets/site.js?v=920b719450" defer></script>
 </head>
 <body class="page-abregee">

diff --git a/assets/site.css b/assets/site.css
@@ -1110,3 +1110,4 @@ html.hc .bandeau,html.lv .bandeau{--degrade:linear-gradient(100deg,var(--c1) 0%,
 .porte:hover .poignee::after,.porte:focus-visible .poignee::after,.porte.ouverte .poignee::after,.onglet-salle:hover .poignee::after,.onglet-salle.ouverte .poignee::after{transform:translateY(-50%) rotate(-40deg)}
 .poignee::after{width:280%}
 .porte:focus,.porte:focus-visible{outline:none}
+.portrait-bio{background:none}
